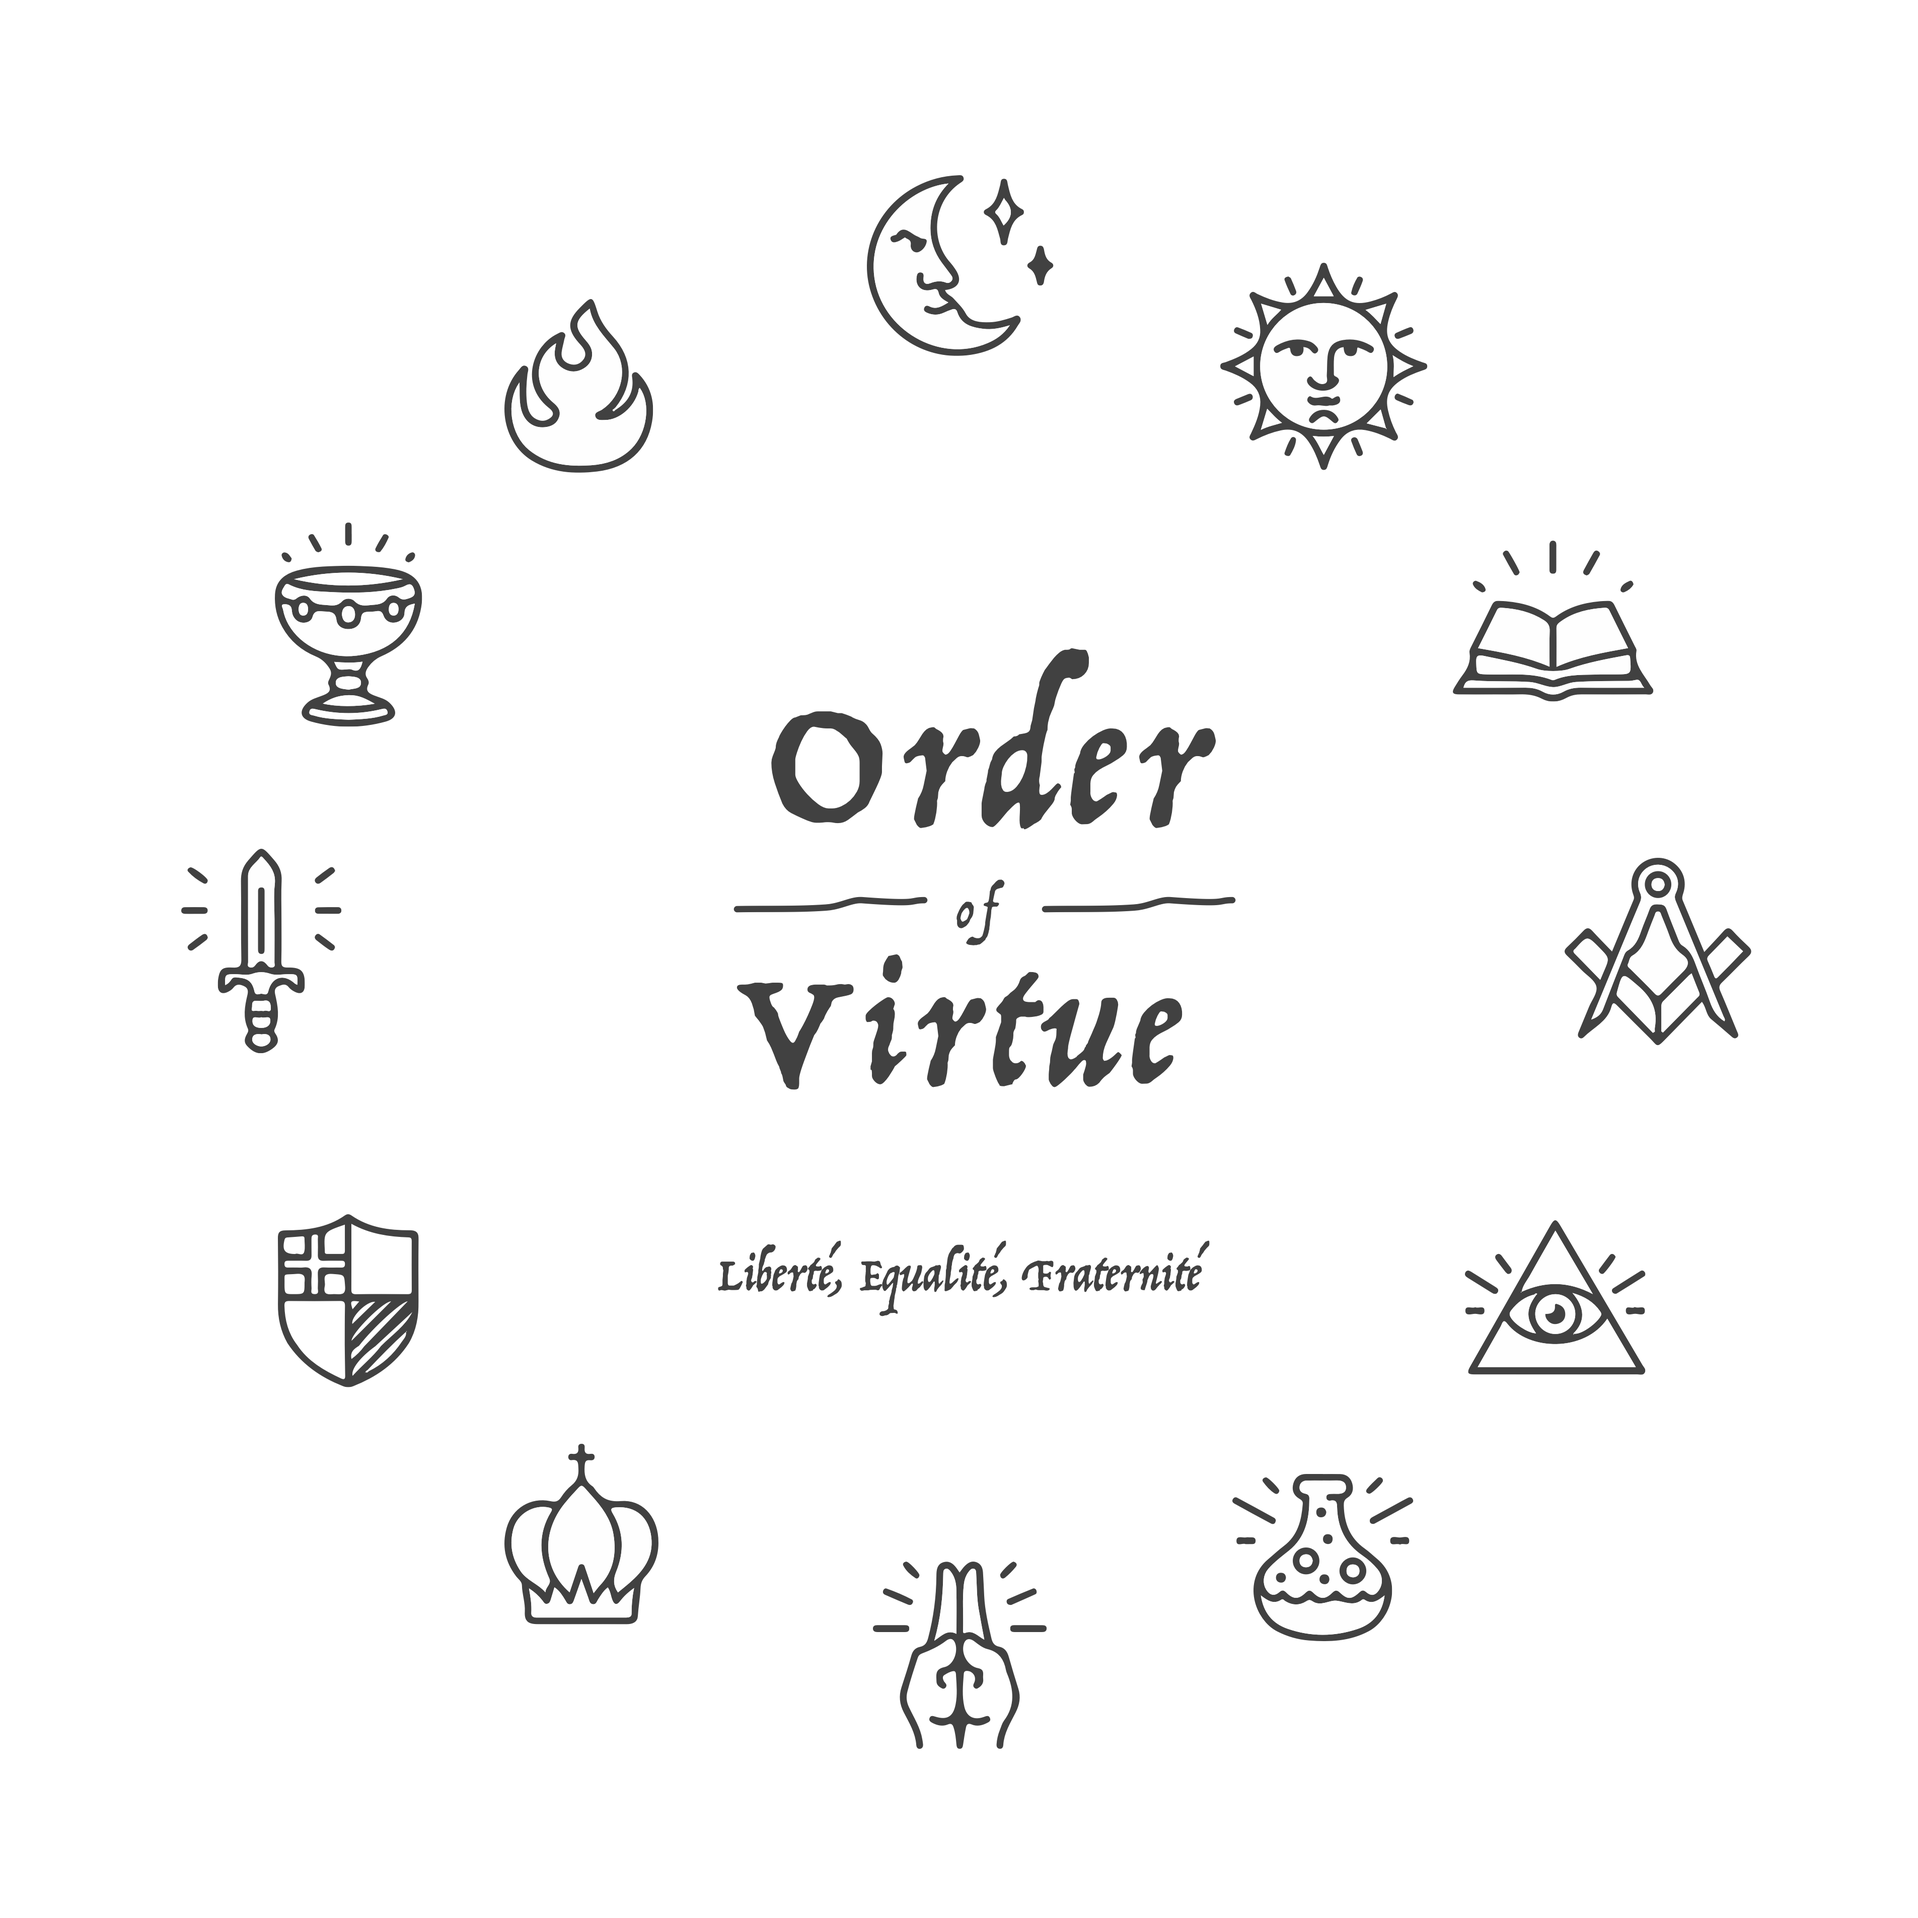
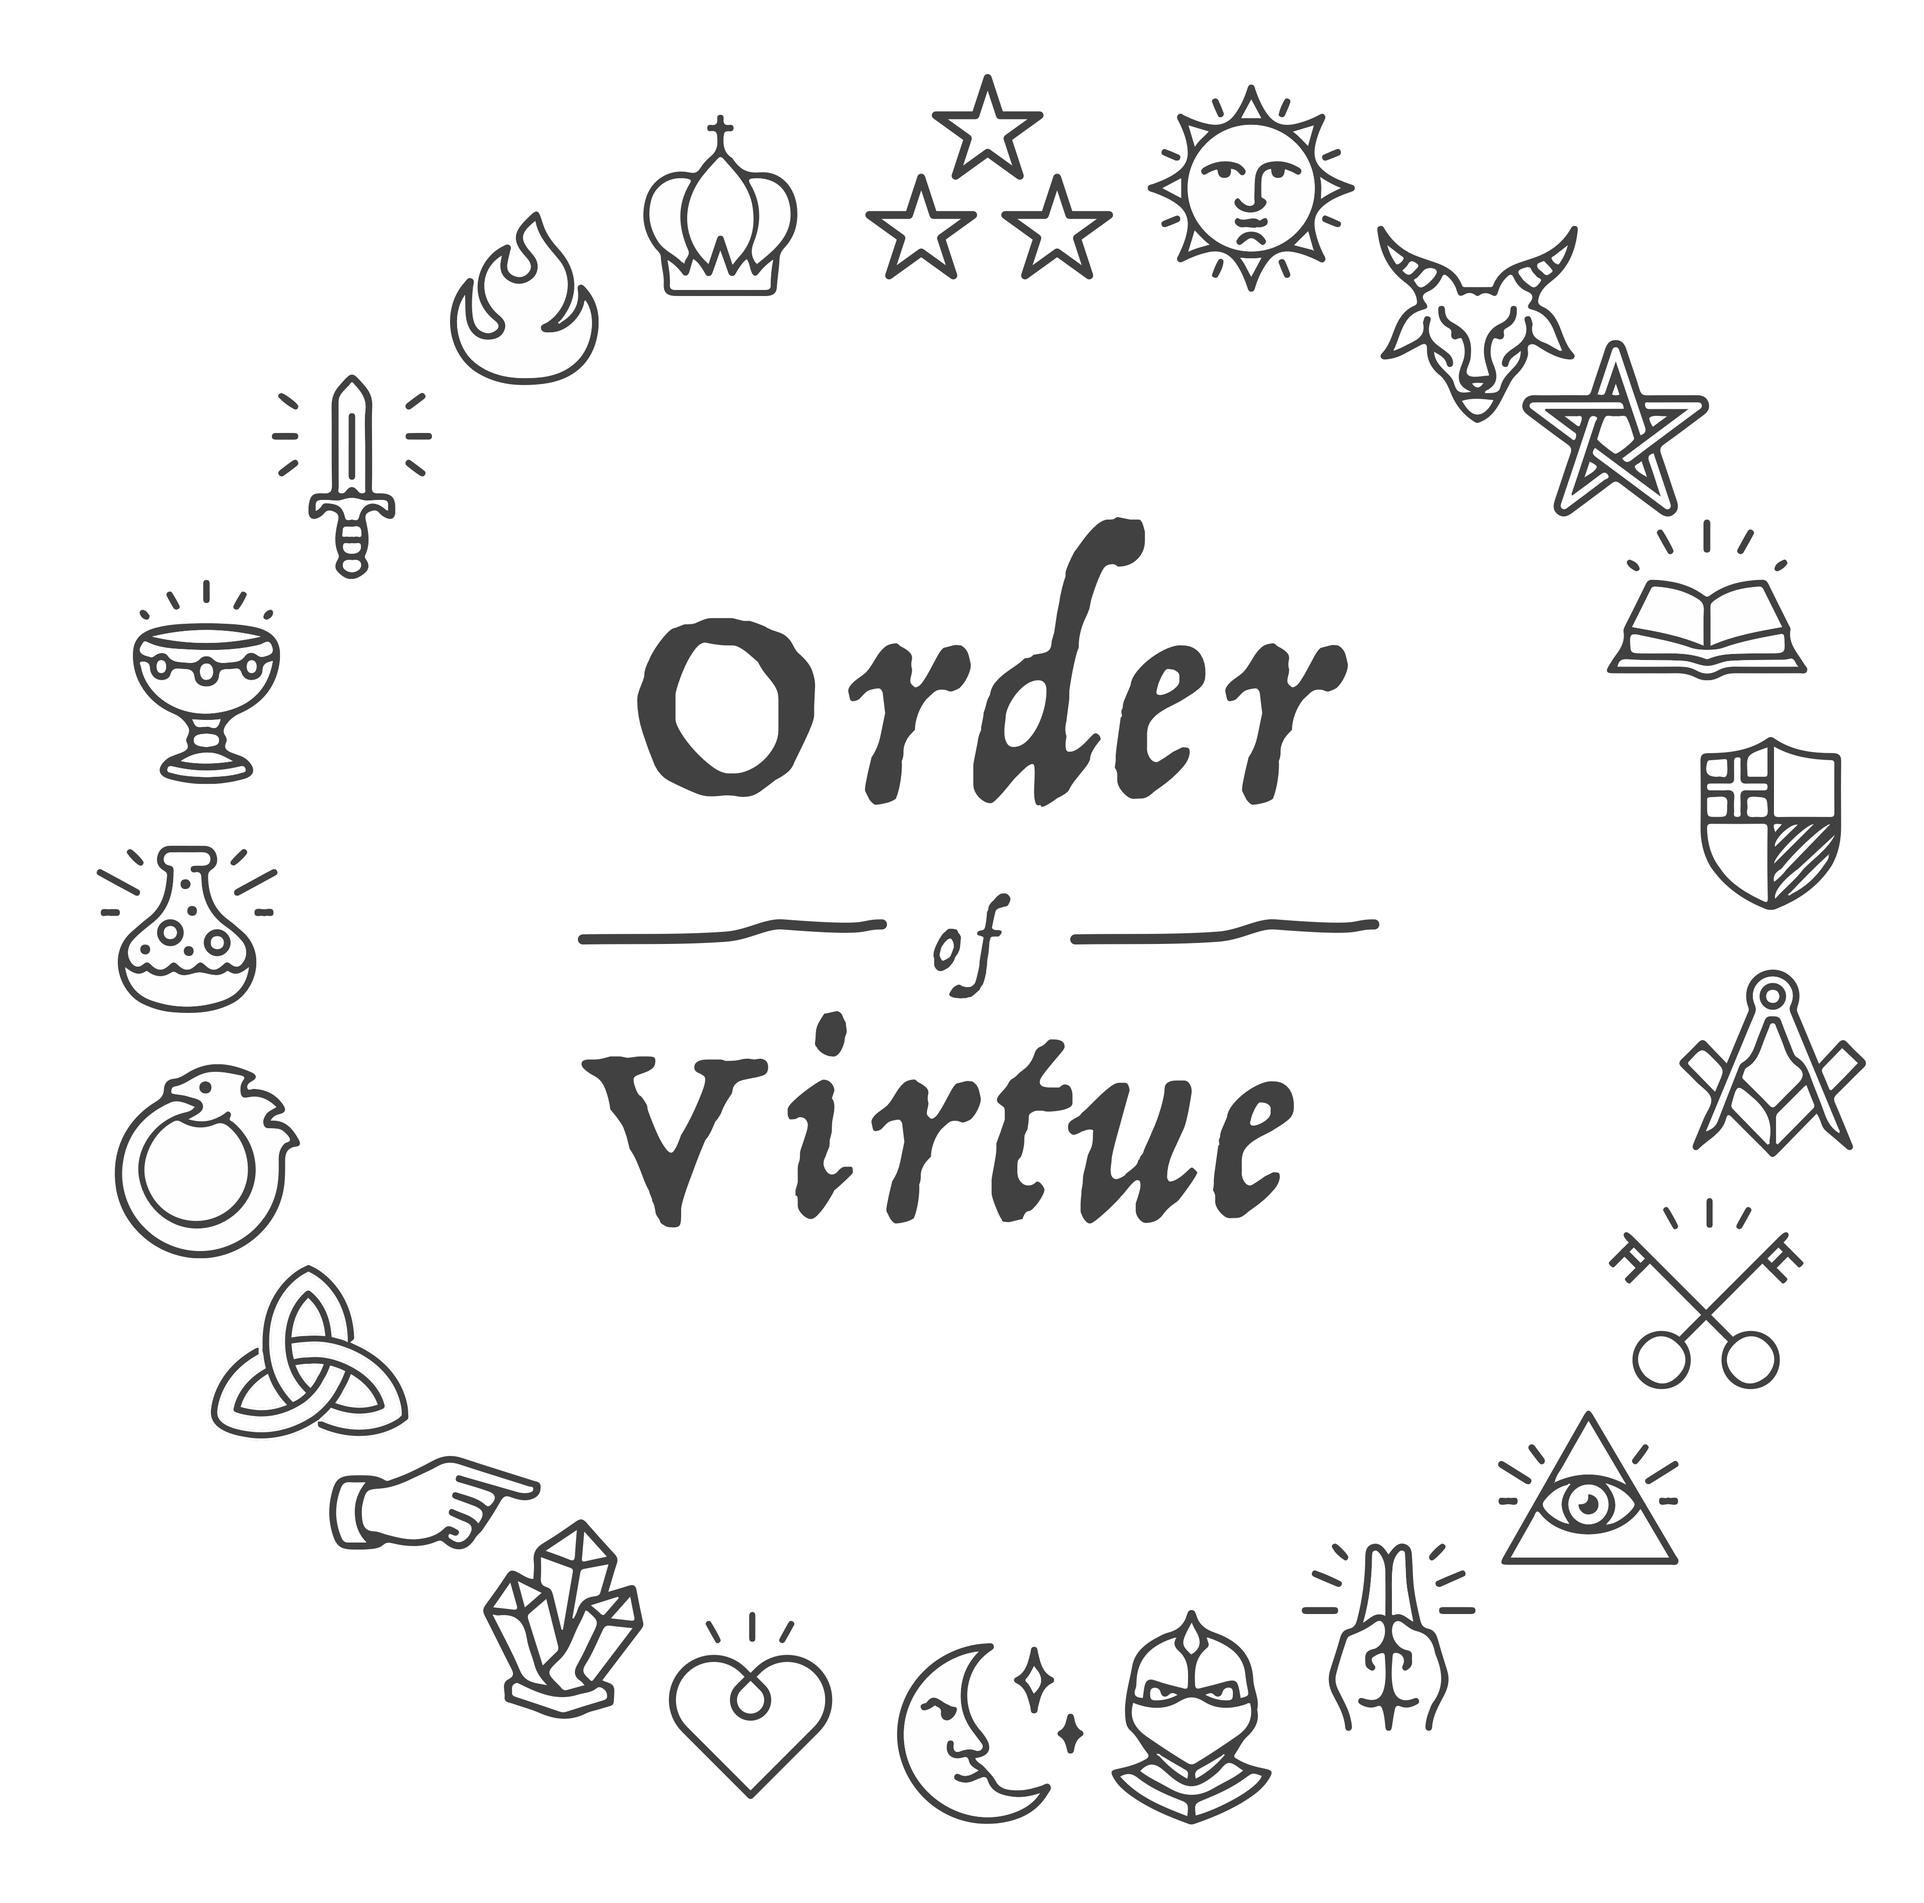
adding sisterhood

diff --git a/order.html b/order.html
@@ -41,6 +41,7 @@
                 <a class="nav-link" href="index.html">← Back to meetusinthegarden.com</a>
             </li>
         </ul>
+        <!--
         <ul class="nav navbar-nav ml-auto w-100 justify-content-end">
             <li class="nav-item">
                 <a class="nav-link" href="#action">Action Items</a>
@@ -52,6 +53,7 @@
                 <a class="nav-link" href="#members">Membership</a>
             </li>
         </ul>
+      -->
     </div>
 </nav>
 
@@ -79,7 +81,7 @@ box-shadow: 0 8px 32px 0 rgba(207,207,207,0.50);
 </style>
 
 
-<div class="col-12">
+<div class="col-sm-10 offset-sm-1 col-10 offset-1">
       <div class="row">
         <div class="container-fluid mt-4 mb-4">  
 
@@ -166,15 +168,10 @@ line-height: 26px;
 
 </style>
 
-
+<!--
 <div id="action" class="row" style="margin-top: 5%; margin-bottom: 5%">
   <div class="container-fluid mt-4 mb-4" style="position: relative; top: 0; left: 0;">  
 
-<!--
-    <span class="b-spot-back">
-      <img class="image-2" src="img/peony.png">
-    </span>
--->
 
     <div class="b-spot-front" style="position: relative;">
 
@@ -223,11 +220,7 @@ line-height: 26px;
 <div id="schedule" class="row" style="margin-top: 20%; margin-bottom: 5%">
   <div class="container-fluid mt-4 mb-4" style="position: relative; top: 0; left: 0;">  
 
-<!--
-    <span class="c-spot-back">
-      <img class="image-2" src="img/rose.png">
-    </span>
-   -->
+<
 
     <div class="b-spot-front" style="text-align: center; position: relative;">
 
@@ -242,23 +235,206 @@ line-height: 26px;
   </div>
 </div>
 
+-->
 
 
-
-<div id="members" class="row" style="margin-top: 20%; margin-bottom: 5%">
+<div id="members" class="row" style="margin-top: 5%; margin-bottom: 5%">
 <div class="container-fluid">
 
-	<h1 style="text-align: center" class="mb-4">Membership</h1>
+
+<div class="col-sm-8 offset-sm-2 col-10 offset-1">
+    <h1 style="text-align: center" class="mb-4">Sisterhood</h1>
+<div class="row mt-4">
+<div class="col-sm-5 offset-sm-1 col-12">
+  
+
+<div class="row mt-3">
+  <div class="col-3">
+    <img class="img-fluid" src="img/icons/three-star-top.png" />
+  </div>
+
+  <div class="col-9">
+    <h4 class="mt-3" style="color: #414141">Maid of Honour</h4>
+    <h3>Devon Roeshot</h3>
+  </div>
+</div>
+
+<div class="row mt-3">
+  <div class="col-3">
+    <img class="img-fluid" src="img/icons/compassion.png" />
+  </div>
+
+  <div class="col-9">
+    <h4 class="mt-3" style="color: #414141">Lady of Compassion</h4>
+    <h3>Kristin Lyman</h3>
+  </div>
+</div>
 
 
-<div class="col-sm-10 offset-sm-1 col-10 offset-1">
+<div class="row mt-3">
+  <div class="col-3">
+    <img class="img-fluid" src="img/icons/magnanimity.png" />
+  </div>
+
+  <div class="col-9">
+    <h4 class="mt-3" style="color: #414141">Lady of Magnanimity</h4>
+    <h3>Mary Fiedler</h3>
+  </div>
+</div>
+
+<div class="row mt-3">
+  <div class="col-3">
+    <img class="img-fluid" src="img/icons/charity.png" />
+  </div>
+
+  <div class="col-9">
+    <h4 class="mt-3" style="color: #414141">Lady of Charity</h4>
+    <h3>Amy O'Shea</h3>
+  </div>
+</div>
+
+<div class="row mt-3">
+  <div class="col-3">
+    <img class="img-fluid" src="img/icons/wonder.png" />
+  </div>
+
+  <div class="col-9">
+    <h4 class="mt-3" style="color: #414141">Lady of Wonder</h4>
+    <h3>Alexandra Tarasi </h3>
+  </div>
+</div>
+
+
+<div class="row mt-3">
+  <div class="col-3">
+    <img class="img-fluid" src="img/icons/grace.png" />
+  </div>
+
+  <div class="col-9">
+    <h4 class="mt-3" style="color: #414141">Lady of Grace</h4>
+    <h3>Erica Amoroso</h3>
+  </div>
+</div>
+
+<div class="row mt-3">
+  <div class="col-3">
+    <img class="img-fluid" src="img/icons/gentleness.png" />
+  </div>
+
+  <div class="col-9">
+    <h4 class="mt-3" style="color: #414141">Young Lady of Gentleness</h4>
+    <h3>Elisa Semon</h3>
+  </div>
+</div>
+
+</div>
+
+
+
+
+<div class="col-sm-5 col-12">
+  
+
+<div class="row mt-3">
+  <div class="col-3">
+    <img class="img-fluid" src="img/icons/benevolence.png" />
+  </div>
+
+  <div class="col-9">
+    <h4 class="mt-3" style="color: #414141">Lady of Benevolence</h4>
+    <h3>Jenna Haworth</h3>
+  </div>
+</div>
+
+<div class="row mt-3">
+  <div class="col-3">
+    <img class="img-fluid" src="img/icons/helpfulness.png" />
+  </div>
+
+  <div class="col-9">
+    <h4 class="mt-3" style="color: #414141">Lady of Helpfulness</h4>
+    <h3>Danielle Breitbart</h3>
+  </div>
+</div>
+
+
+<div class="row mt-3">
+  <div class="col-3">
+    <img class="img-fluid" src="img/icons/fortitude.png" />
+  </div>
+
+  <div class="col-9">
+    <h4 class="mt-3" style="color: #414141">Lady of Fortitude</h4>
+    <h3>Margaret Robins</h3>
+  </div>
+</div>
+
+
+<div class="row mt-3">
+  <div class="col-3">
+    <img class="img-fluid" src="img/icons/generosity.png" />
+  </div>
+
+  <div class="col-9">
+    <h4 class="mt-3" style="color: #414141">Lady of Generosity</h4>
+    <h3>Katie Adams</h3>
+  </div>
+</div>
+
+<div class="row mt-3">
+  <div class="col-3">
+    <img class="img-fluid" src="img/icons/gratitude.png" />
+  </div>
+
+  <div class="col-9">
+    <h4 class="mt-3" style="color: #414141">Lady of Gratitude</h4>
+    <h3>Christine Olsonr</h3>
+  </div>
+</div>
+
+<div class="row mt-3">
+  <div class="col-3">
+    <img class="img-fluid" src="img/icons/loyalty.png" />
+  </div>
+
+  <div class="col-9">
+    <h4 class="mt-3" style="color: #414141">Lady of Loyalty</h4>
+    <h3>Liz McInerney</h3>
+  </div>
+</div>
+
+<div class="row mt-3">
+  <div class="col-3">
+    <img class="img-fluid" src="img/icons/goodwill.png" />
+  </div>
+
+  <div class="col-9">
+    <h4 class="mt-3" style="color: #414141">Young Lady of Goodwill</h4>
+    <h3>Colette Semon</h3>
+  </div>
+</div>
+
+
+</div>
+</div>
+</div>
+
+
+
+
+
+<!---------------------------->
+
+
+<div class="col-sm-8 offset-sm-2 col-10 offset-1" style="margin-top: 10%">
+    <h1 style="text-align: center" class="mt-4 mb-4">Brotherhood</h1>
 <div class="row mt-4">
 <div class="col-sm-5 offset-sm-1 col-12">
 	
 
 <div class="row mt-3">
 	<div class="col-3">
-		<img class="img-fluid" src="img/icons/distinction.png" />
+		<img class="img-fluid" src="img/icons/three-star-left.png" />
 	</div>
 
 	<div class="col-9">
@@ -269,7 +445,7 @@ line-height: 26px;
 
 <div class="row mt-3">
 	<div class="col-3">
-		<img class="img-fluid" src="img/icons/honour.png" />
+		<img class="img-fluid" src="img/icons/three-star-right.png" />
 	</div>
 
 	<div class="col-9">
@@ -391,7 +567,7 @@ line-height: 26px;
 
 <div class="row mt-3">
 	<div class="col-3">
-		<img class="img-fluid" src="img/icons/auth.png" />
+		<img class="img-fluid" src="img/icons/authenticity.png" />
 	</div>
 
 	<div class="col-9">
@@ -404,6 +580,12 @@ line-height: 26px;
 </div>
 </div>
 </div>
+
+
+</div>
+
+
+
 
     </div>
     
